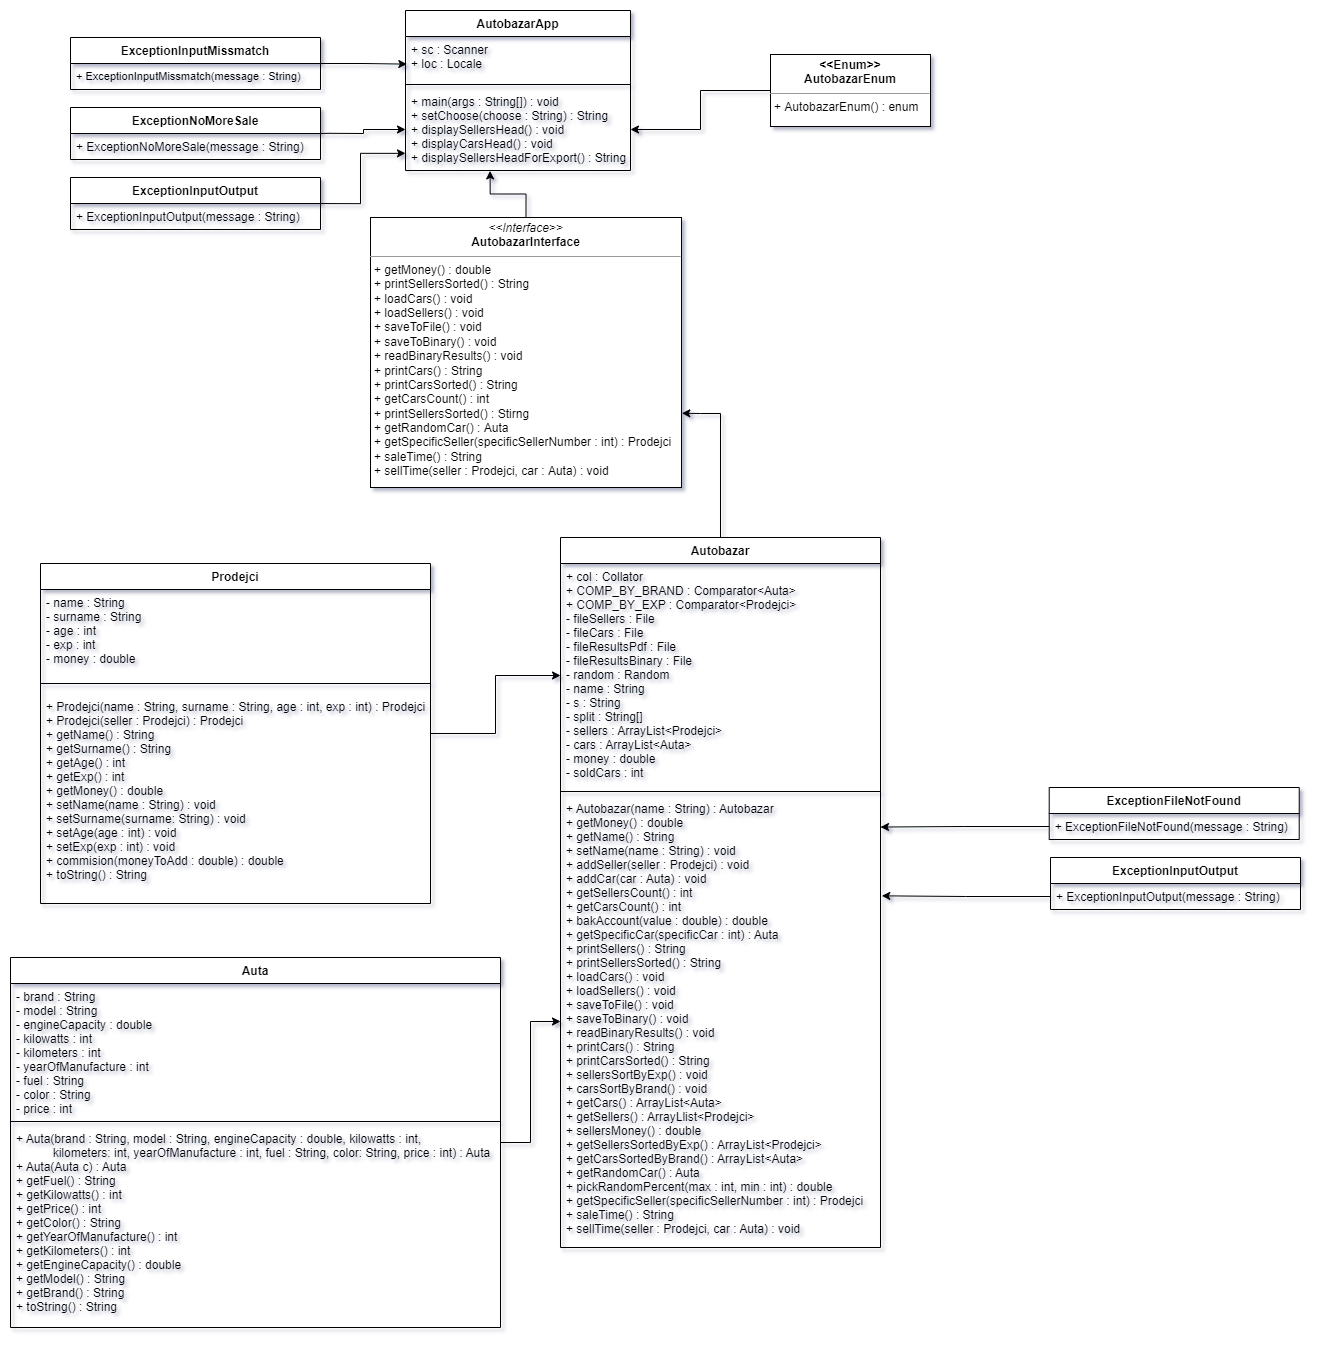
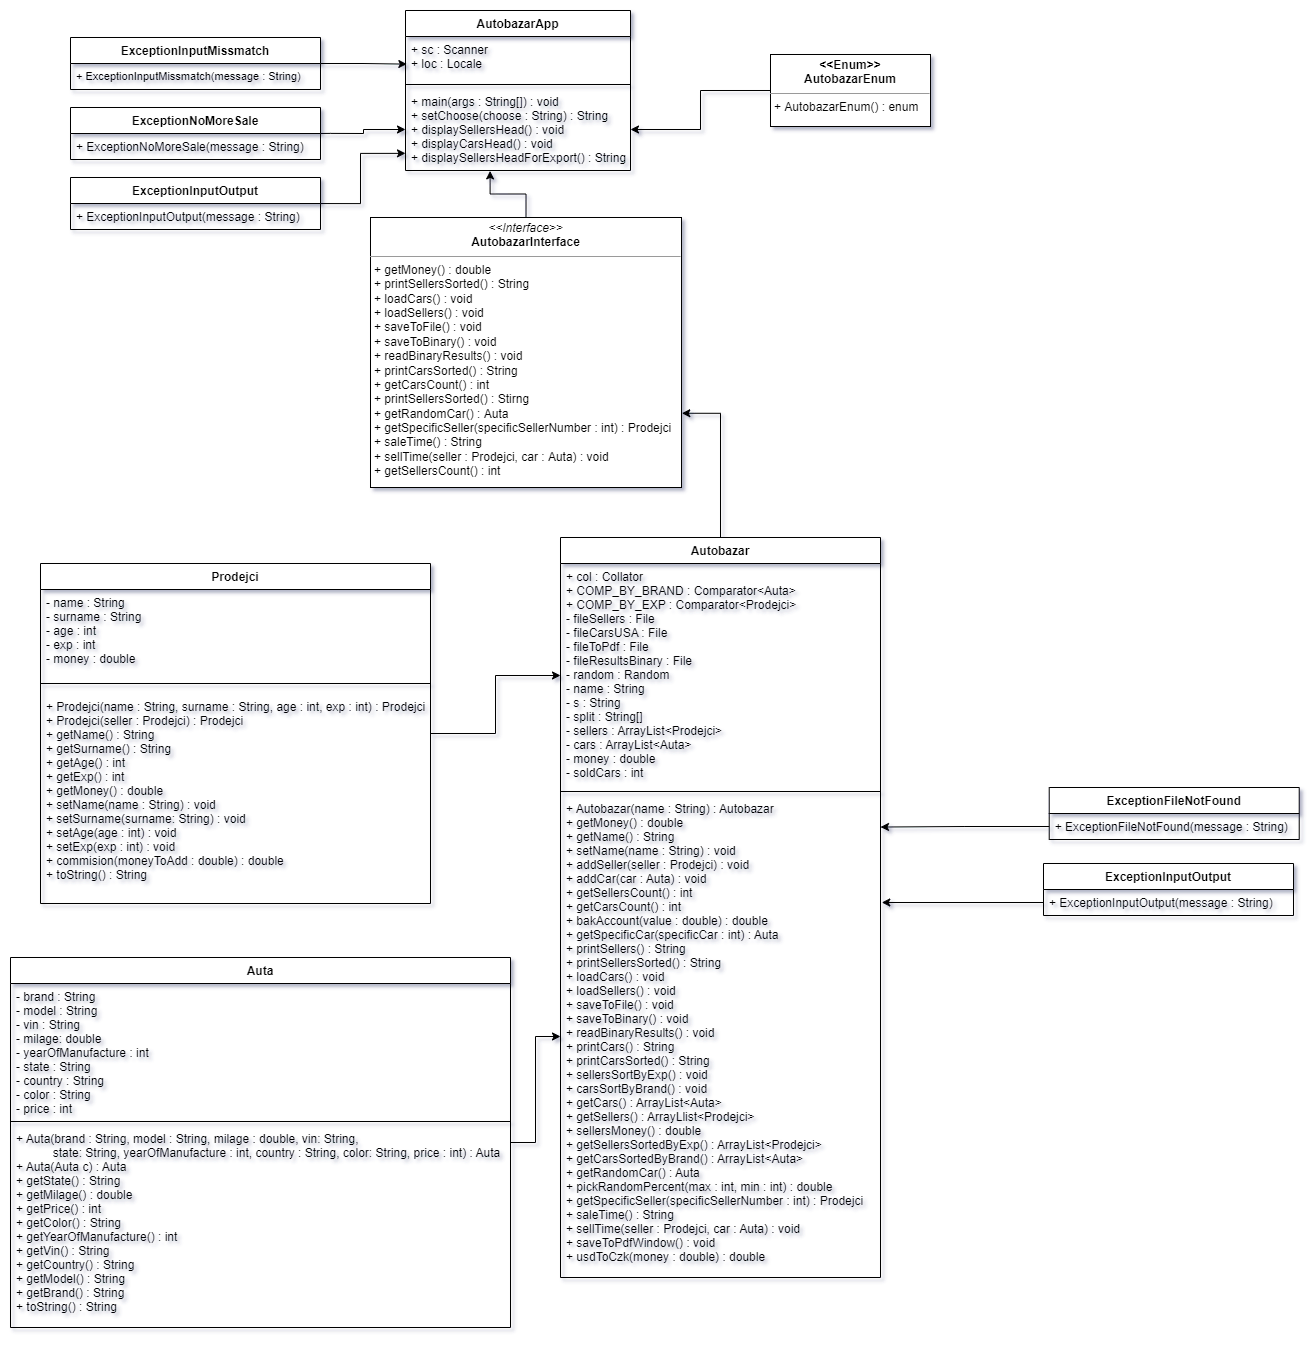
DONE

diff --git a/Autobazar/src/main/java/com/filipkral/autobazar/app/Autobazar.java b/Autobazar/src/main/java/com/filipkral/autobazar/app/Autobazar.java
@@ -15,16 +15,13 @@ import java.text.Collator;
 import java.util.ArrayList;
 import java.util.Locale;
 import java.util.Random;
-
 import javax.swing.JFileChooser;
 import javax.swing.filechooser.FileSystemView;
-
 import java.time.LocalDateTime;
 import java.time.format.DateTimeFormatter;
 import java.util.Collections;
 import java.util.Comparator;
 import java.util.List;
-
 import com.filipkral.autobazar.utils.AutobazarInterface;
 import com.filipkral.autobazar.utils.ExceptionFileNotFound;
 import com.filipkral.autobazar.utils.ExceptionInputOutput;
@@ -48,9 +45,9 @@ import com.itextpdf.layout.element.Text;
 public class Autobazar implements AutobazarInterface {
 
     public static final Collator col = Collator.getInstance(new Locale("cs", "CZ"));
-    public static final String IMPACT_FONT = "../Autobazar/src/main/java/com/filipkral/autobazar/fonts/impact.ttf";
-    public static final String LIBERATIONSANS_REGULAR = "../Autobazar/src/main/java/com/filipkral/autobazar/fonts/LiberationSans-Regular.ttf";
-    public static final String LIBERATIONSANS_BOLD = "../Autobazar/src/main/java/com/filipkral/autobazar/fonts/LiberationSans-Bold.ttf";
+    public static final String IMPACT_FONT = "./Autobazar/src/main/java/com/filipkral/autobazar/fonts/impact.ttf";
+    public static final String LIBERATIONSANS_REGULAR = "./Autobazar/src/main/java/com/filipkral/autobazar/fonts/LiberationSans-Regular.ttf";
+    public static final String LIBERATIONSANS_BOLD = "./Autobazar/src/main/java/com/filipkral/autobazar/fonts/LiberationSans-Bold.ttf";
     public static final Comparator<Auta> COMP_BY_BRAND = (Auta c1, Auta c2) -> {
         int value = col.compare(c1.getBrand(), c2.getBrand());
         if (value == 0) {
@@ -66,10 +63,10 @@ public class Autobazar implements AutobazarInterface {
     };
 
     private static final File fileSellers = new File(
-            "../Autobazar/src/main/java/com/filipkral/autobazar/sellers.csv");
-    private static final File fileCarsUSA = new File("../Autobazar/src/main/java/com/filipkral/autobazar/carsUSA.csv");
+            "./Autobazar/src/main/java/com/filipkral/autobazar/sellers.csv");
+    private static final File fileCarsUSA = new File("./Autobazar/src/main/java/com/filipkral/autobazar/carsUSA.csv");
     private static final File fileResultsBinary = new File(
-            "../Autobazar/src/main/java/com/filipkral/autobazar/data/results.dat");
+            "./Autobazar/src/main/java/com/filipkral/autobazar/data/results.dat");
     private static final Locale loc = new Locale("CS", "cz");
     private static File fileToPdf;
 
@@ -78,7 +75,6 @@ public class Autobazar implements AutobazarInterface {
     private String[] split;
     private List<Prodejci> sellers;
     private List<Auta> cars;
-    private List<Auta> carsSorted;
     private double money;
     private int soldCars;
 
@@ -90,7 +86,6 @@ public class Autobazar implements AutobazarInterface {
     public Autobazar(String name) {
         this.name = name;
         cars = new ArrayList<>();
-        carsSorted = new ArrayList<>();
         sellers = new ArrayList<>();
 
     }
@@ -185,9 +180,10 @@ public class Autobazar implements AutobazarInterface {
      * @param value
      * @return double
      */
-    public double bankAccount(double value) {
+    public double bankAccount(double moneyToAdd) {
         try {
-            return this.money = value + this.money;
+            money += moneyToAdd;
+            return money;
         } catch (ExceptionInputOutput e) {
             return 0;
         }
@@ -255,6 +251,7 @@ public class Autobazar implements AutobazarInterface {
 
     /**
      * Method for loading cars from US dataset
+     * 
      * @throws com.filipkral.autobazar.utils.ExceptionFileNotFound
      */
     @Override
@@ -282,7 +279,6 @@ public class Autobazar implements AutobazarInterface {
                 country = split[11];
 
                 cars.add(new Auta(brand, model, vin, dblMilage, intYear, color, intPrice, state, country));
-                carsSorted.add(new Auta(brand, model, vin, dblMilage, intYear, color, intPrice, state, country));
             }
             reader.close();
         } catch (FileNotFoundException e) {
@@ -393,14 +389,7 @@ public class Autobazar implements AutobazarInterface {
     @Override
     public void saveToBinary() throws FileNotFoundException, IOException {
         try (DataOutputStream out = new DataOutputStream(new FileOutputStream(fileResultsBinary))) {
-            for (Prodejci seller : getSellersSortedByExp()) {
-                out.writeUTF(seller.getName());
-                out.writeUTF(seller.getSurname());
-                out.writeInt(seller.getAge());
-                out.writeInt(seller.getExp());
-                out.flush();
-            }
-
+            out.writeUTF(printSellersSorted());
             out.writeUTF("Bylo prodáno: ");
             out.writeInt(getSoldCars());
             out.writeUTF(" ks");
@@ -425,16 +414,7 @@ public class Autobazar implements AutobazarInterface {
         StringBuilder sb = new StringBuilder();
         try (DataInputStream in = new DataInputStream(new FileInputStream(fileResultsBinary))) {
             sb.append("\n");
-            for (Prodejci seller : getSellersSortedByExp()) {
-                String name = in.readUTF();
-                String surname = in.readUTF();
-                int age = in.readInt();
-                int exp = in.readInt();
-
-                seller = new Prodejci(name, surname, age, exp);
-                sb.append(seller);
-
-            }
+            sb.append(in.readUTF());
             sb.append("\n");
 
             sb.append(in.readUTF()).append(in.readInt()).append(in.readUTF()).append("\n").append(in.readUTF())
@@ -453,7 +433,6 @@ public class Autobazar implements AutobazarInterface {
      * @throws ExceptionInputOutput
      * @throws ExceptionFileNotFound
      */
-    @Override
     public String printCars() throws ExceptionFileNotFound, ExceptionInputOutput {
         StringBuilder sb = new StringBuilder();
         int count = 0;
@@ -487,7 +466,7 @@ public class Autobazar implements AutobazarInterface {
             } else {
                 sb.append(count += 1).append(". ").append(String.format(loc, "%s", car));
             }
-
+            
         }
 
         return sb.toString();
@@ -504,31 +483,31 @@ public class Autobazar implements AutobazarInterface {
      * Method for sorting list of cars with specific comparator
      */
     public void carsSortByBrand() {
-        Collections.sort(carsSorted, COMP_BY_BRAND);
+        Collections.sort(cars, COMP_BY_BRAND);
     }
 
     /**
-     * Method for deep copy of cars list
+     * Method for copy of cars list
      * 
      * @return ArrayList copy
      */
     public ArrayList<Auta> getCars() {
         ArrayList<Auta> copy = new ArrayList<>();
-        for (Auta car : carsSorted) {
-            copy.add(new Auta(car));
+        for (Auta car : cars) {
+            copy.add(car);
         }
         return copy;
     }
 
     /**
-     * Method for deep copy of sellers list
+     * Method for copy of sellers list
      * 
      * @return ArrayList copy
      */
     public ArrayList<Prodejci> getSellers() {
         ArrayList<Prodejci> copy = new ArrayList<>();
         for (Prodejci seller : sellers) {
-            copy.add(new Prodejci(seller));
+            copy.add(seller);
         }
         return copy;
 
@@ -564,7 +543,7 @@ public class Autobazar implements AutobazarInterface {
      */
     public ArrayList<Auta> getCarsSortedByBrand() {
         carsSortByBrand();
-        return getCars();
+        return new ArrayList<Auta>(cars);
     }
 
     /**
@@ -574,11 +553,8 @@ public class Autobazar implements AutobazarInterface {
      */
     @Override
     public Auta getRandomCar() {
-
-        random = new Random();
-
-        return getCarsSortedByBrand().get(random.nextInt(getCarsSortedByBrand().size()));
-
+        carsSortByBrand();
+        return cars.get(new Random().nextInt(cars.size()));
     }
 
     /**
@@ -633,6 +609,10 @@ public class Autobazar implements AutobazarInterface {
         return money * 23;
     }
 
+    public double commission(Prodejci seller, double money) {
+        return seller.commission(money);
+    }
+
     /**
      * Method for making a sale
      * 
@@ -643,29 +623,27 @@ public class Autobazar implements AutobazarInterface {
     @Override
     public void sellTime(Prodejci seller, Auta car) {
         double priceModif;
-        double sellerCommision;
-        // remove car nefunkční
-        // sellersmoney nefunkční
+        double sellerCommission;
 
         if (seller.getExp() <= 10 && seller.getExp() >= 8) {
             priceModif = usdToCzk(car.getPrice()) * (pickRandomPercent(5, 0) / 100);
-            sellerCommision = seller.commission(priceModif * 0.1);
-            seller.commission(sellerCommision);
-            bankAccount(priceModif - sellerCommision);
+            sellerCommission = seller.commission(priceModif * 0.01);
+            seller.commission(sellerCommission);
+            bankAccount((priceModif - sellerCommission));
             setSoldCars();
             cars.remove(car);
         } else if (seller.getExp() <= 7 && seller.getExp() >= 4) {
             priceModif = usdToCzk(car.getPrice()) * (pickRandomPercent(10, 6) / 100);
-            sellerCommision = seller.commission(priceModif * 0.1);
-            seller.commission(sellerCommision);
-            bankAccount(priceModif - sellerCommision);
+            sellerCommission = seller.commission(priceModif * 0.01);
+            seller.commission(sellerCommission);
+            bankAccount((priceModif - sellerCommission));
             setSoldCars();
             cars.remove(car);
         } else {
             priceModif = usdToCzk(car.getPrice()) * (pickRandomPercent(15, 11) / 100);
-            sellerCommision = seller.commission(priceModif * 0.1);
-            seller.commission(sellerCommision);
-            bankAccount(priceModif - sellerCommision);
+            sellerCommission = seller.commission(priceModif * 0.01);
+            seller.commission(sellerCommission);
+            bankAccount((priceModif - sellerCommission));
             setSoldCars();
             cars.remove(car);
         }
@@ -681,7 +659,8 @@ public class Autobazar implements AutobazarInterface {
         return String.format("Autobazar %s má %d aut a %d prodejců.\n", getName(), getCarsCount(), getSellersCount());
     }
 
-    public static void main(String[] args) throws ExceptionInputOutput,
+   /* 
+   public static void main(String[] args) throws ExceptionInputOutput,
             IOException {
         Autobazar abc = new Autobazar("ABC");
         abc.loadCars();
@@ -695,4 +674,5 @@ public class Autobazar implements AutobazarInterface {
         System.out.println("Hi");
         System.out.println(abc);
     }
+    */ 
 }

diff --git a/Autobazar/src/main/java/com/filipkral/autobazar/ui/AutobazarApp.java b/Autobazar/src/main/java/com/filipkral/autobazar/ui/AutobazarApp.java
@@ -44,20 +44,7 @@ public class AutobazarApp {
             choose = sc.next();
 
             if (setChoose(choose).equalsIgnoreCase("SA")) {
-
-                while (true) {
-                    System.out.println("Cheš sezařený nebo origální seznam? [S,s/O,o]");
-                    choose = sc.next();
-
-                    if (setChoose(choose).equalsIgnoreCase("S")) {
-                        System.out.println(abc.printCarsSorted());
-                        break;
-                    } else if (setChoose(choose).equalsIgnoreCase("O")) {
-                        System.out.println(abc.printCars());
-                        break;
-                    }
-
-                }
+                System.out.println(abc.printCarsSorted());
             } else if (setChoose(choose).equalsIgnoreCase("SP")) {
                 System.out.println();
                 System.out.println(abc.printSellersSorted());
@@ -71,7 +58,7 @@ public class AutobazarApp {
                         choose = sc.next();
 
                         if (setChoose(choose).equalsIgnoreCase("A")) {
-                            Auta car = new Auta(abc.getRandomCar());
+                            Auta car = abc.getRandomCar();
                             System.out.println(abc.printSellersSorted());
                             System.out.println("Vyber prodejce:");
                             String choiceSeller;
@@ -92,7 +79,7 @@ public class AutobazarApp {
                                     System.out.println("Vracím tě o krok zpět!\n");
                                     break;
                                 } else {
-                                    Prodejci seller = new Prodejci(abc.getSpecificSeller(choiceSellerInt));
+                                    Prodejci seller = abc.getSpecificSeller(choiceSellerInt);
 
                                     abc.sellTime(seller, car);
                                     System.out.format(

diff --git a/Autobazar/src/main/java/com/filipkral/autobazar/utils/AutobazarInterface.java b/Autobazar/src/main/java/com/filipkral/autobazar/utils/AutobazarInterface.java
@@ -14,7 +14,6 @@ import com.filipkral.autobazar.app.Prodejci;
  */
 public interface AutobazarInterface {
 
-    public String printCars() throws ExceptionFileNotFound, ExceptionInputOutput;
     public String printCarsSorted() throws ExceptionFileNotFound, ExceptionInputOutput;
     public String printSellersSorted() throws ExceptionFileNotFound, ExceptionInputOutput;
     public void sellTime(Prodejci seller, Auta car) throws ExceptionNoMoreSale, ExceptionFileNotFound, ExceptionInputOutput;

diff --git a/Autobazar/src/main/java/com/filipkral/autobazar/app/Auta.java b/Autobazar/src/main/java/com/filipkral/autobazar/app/Auta.java
@@ -112,7 +112,7 @@ public class Auta {
 
     @Override
     public String toString() {
-        return String.format("%-15s %-20s %-11.2f %-7d %-20s %-20s %-20s %-20s %-15d\n", getBrand(), getModel(),
+        return String.format("%-15s %-20s %-11.2f %-7d %-20s %-20s %-20s %-20s %-5d $\n", getBrand(), getModel(),
                 getMilage(),
                 getYearOfManufacture(), getVin(), getState(), getCountry(), getColor(), getPrice());
     }

diff --git a/Autobazar/src/main/java/com/filipkral/autobazar/app/Prodejci.java b/Autobazar/src/main/java/com/filipkral/autobazar/app/Prodejci.java
@@ -80,7 +80,7 @@ public class Prodejci {
      * @return this.money
      */
     public double getMoney() {
-        return this.money;
+        return money;
     }
 
     /**
@@ -126,7 +126,8 @@ public class Prodejci {
      * @return this.money
      */
     public double commission(double moneyToAdd) {
-        return this.money = this.money + moneyToAdd;
+        money += moneyToAdd;
+        return money;
     }
 
     @Override
